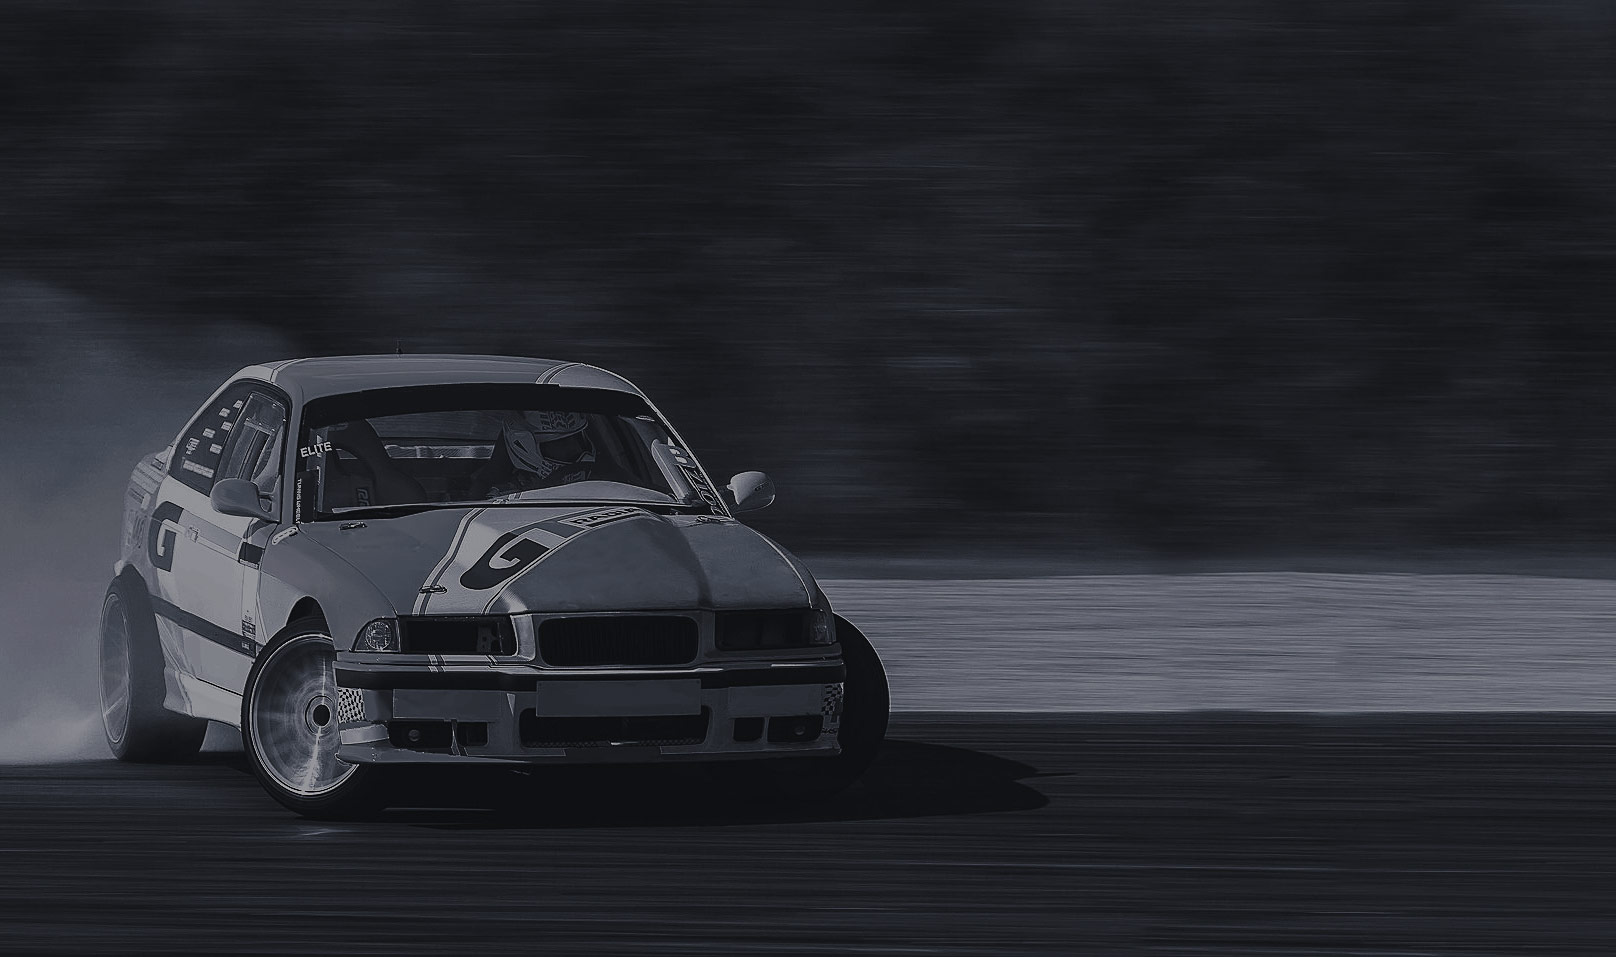
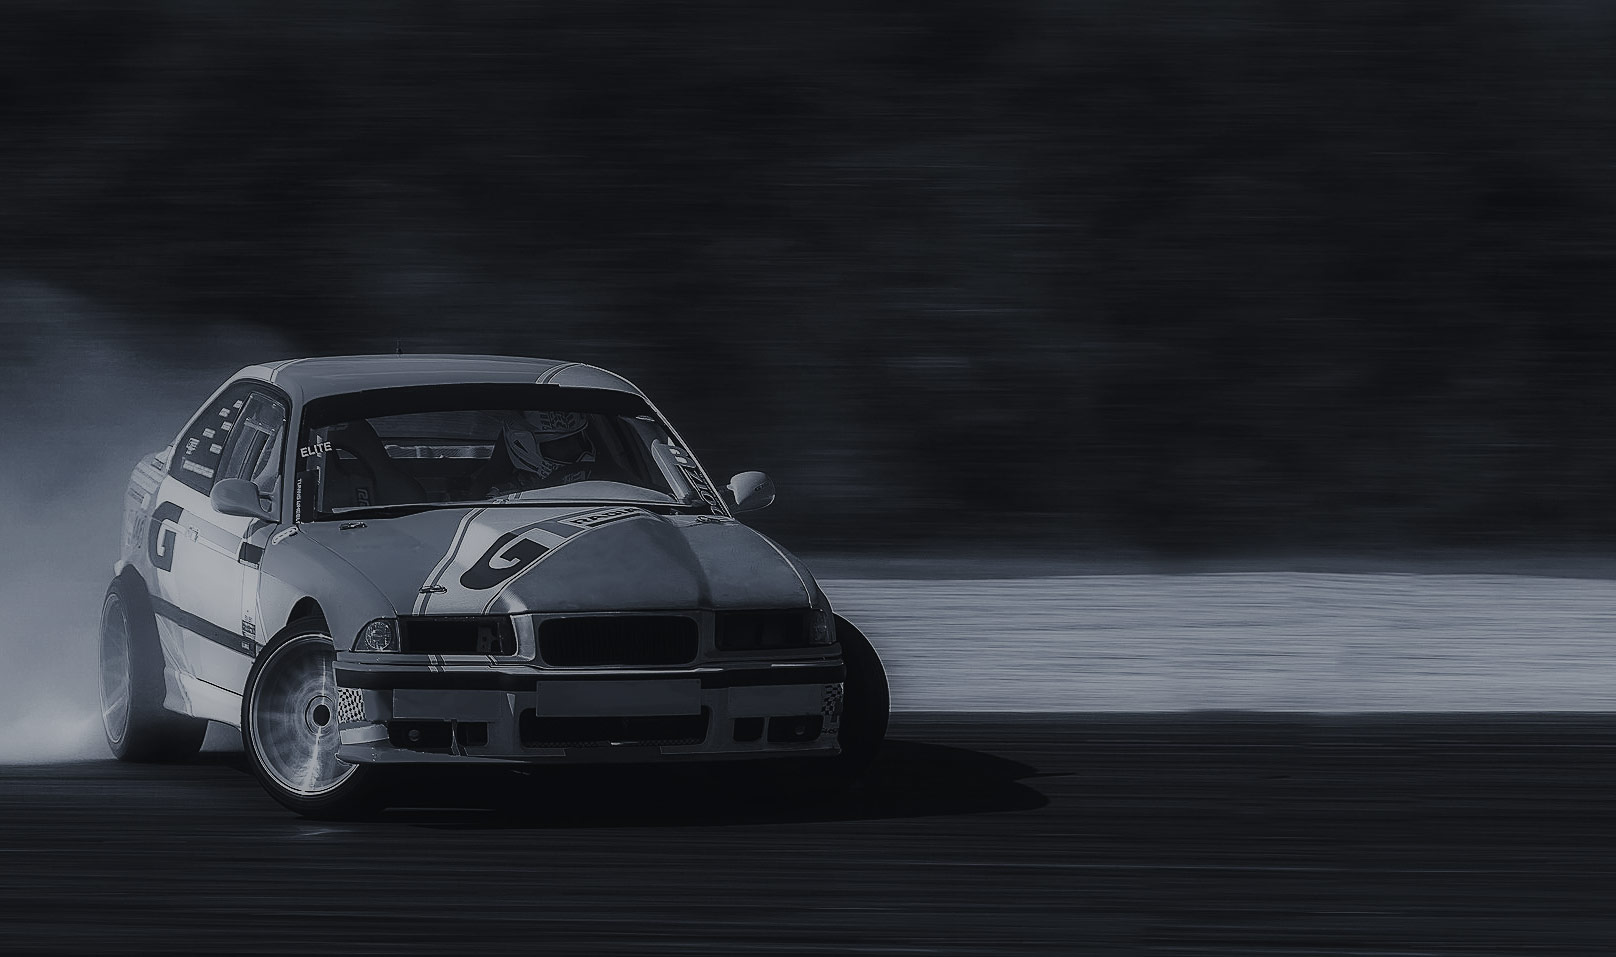
Update header and add plugin

Changed region(s): [[0.526, 0.6061, 1.0, 0.7273], [0.0, 0.4848, 0.1856, 0.7879]]

diff --git a/index.html b/index.html
@@ -79,7 +79,7 @@
     <section id="home">
       <div class="container">
         <h1>Speed up communications between you and your users.</h1>
-        <h3>Create your forum, documentation, and chat streams. On your userbase, embeddable and real-time.</h3>
+        <h3>Create your forum, documentation, and chat streams for your web application.<br>On your userbase, embeddable and real-time.</h3>
 
         <a href="javascript:;" fruum-link="*" class="main-cta-buttonlink">Test it out</a>
 
@@ -226,15 +226,11 @@
         </ul>
       </div>
     </section>
-    <section id="promo">
+    <section id="plugins">
       <div class="container">
         <h2 class="main-descriptor">
           With Fruum you can support many ways of communication (a.k.a. not only text <i class="fa fa-smile-o"></i>)
         </h2>
-      </div>
-    </section>
-    <section id="plugins">
-      <div class="container">
         <ul class="features-set">
           <li class="feature-promo">
             <img src="style/images/plugin-dropbox.png" width="170" height="54"/>
@@ -250,6 +246,9 @@
           </li>
           <li class="feature-promo">
             <img src="style/images/plugin-giphy.png" width="170" height="54"/>
+          </li>
+          <li class="feature-promo">
+            <img src="style/images/plugin-vimeo.png" width="170" height="54"/>
           </li>
         </ul>
         <p class="disclaimer">Need more? Checkout an existing <a href="https://github.com/fruum/fruum/tree/master/plugins">plugin example on github</a> and extend Fruum to support to your needs.</p>

diff --git a/style/presentation.css b/style/presentation.css
@@ -57,7 +57,7 @@ section {
 #home {
   position: relative;
   background-color: #F5003A;
-  background: url('images/bg-track.jpg') bottom left #1A1D21 no-repeat;
+  background: url('images/bg-track.jpg') bottom right #1A1D21 no-repeat;
   background-size: cover;
   color: #fff;
   padding-bottom: 0;
@@ -99,7 +99,7 @@ section {
 .menu-right {
   float: right;
   line-height: 52px;
-  font-size: 10px;
+  font-size: 12px;
   color: #fff;
   opacity: 0.5;
   text-decoration: none;
@@ -289,13 +289,13 @@ h2.main-descriptor {
 }
 
 .features-set .feature-promo {
-  width: 20%;
+  width: 33.333%;
   float: left;
   min-width: 170px;
   text-align: center;
   padding-top: 10px;
   padding-bottom: 10px;
-  margin-bottom: 10px;
+  margin-bottom: 30px;
 }
 
 
@@ -314,6 +314,10 @@ h2.main-descriptor {
   font-weight: normal;
   color: rgba( 56, 62, 69, 0.7 );
   height: 90px;
+}
+
+#plugins h2.main-descriptor {
+  margin-bottom: 0;
 }
 
 
